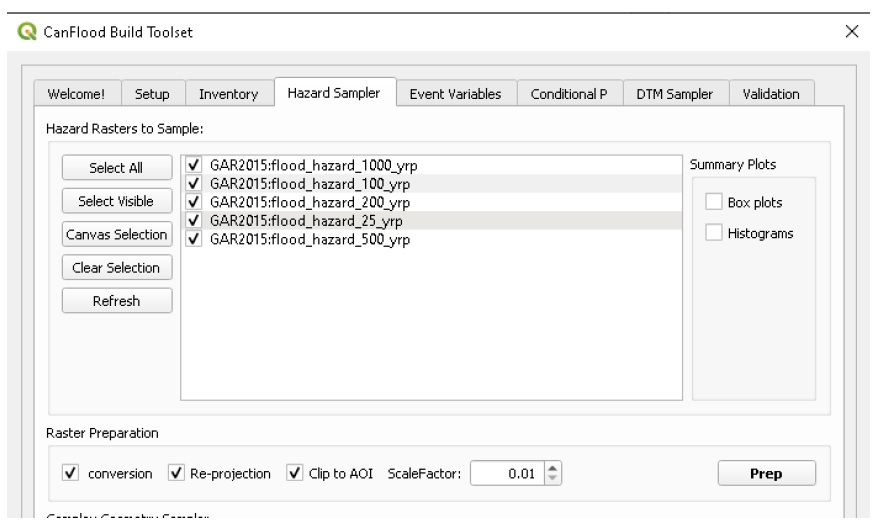
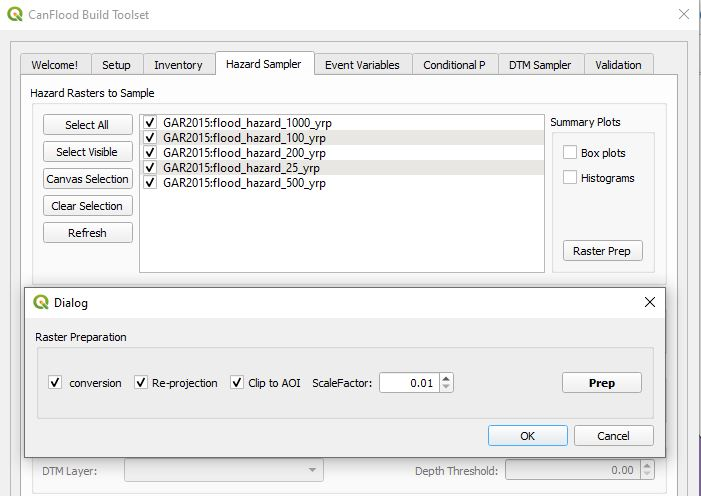
Latest changes by Jamie on the manual

diff --git a/docs/source/table_of_contents/index.rst b/docs/source/table_of_contents/index.rst
@@ -1693,8 +1693,8 @@ These plots are the two standard risk curve formats for the same total results d
 
 Users should first complete Tutorials 1 and 2a. Tutorial 2b uses the same input data as 2a but expands the analysis to demonstrate the risk analysis of a simple levee failure through incorporating a single companion failure event into the model. This companion failure event is composed of two layers:
 
-  • *haz_1000_fail_B_tut2*: ‘failure raster’ indicating the WSL that would be realized were any of the levee segments to fail during the event; and
-  • *haz_1000_fail_B_tut2*: conditional exposure probability polygon layer with features indicating the extent and probability of failure of each levee segment during the flood event (‘failure polygons’). Notice this layer contains two features that overlap in places, corresponding potential flooding from two breach sites in the levee system. This layer will be used to tell CanFlood when and how to sample the failure raster.
+  • *haz_1000_fail_A_tut2*: ‘failure raster’ indicating the WSL that would be realized were any of the levee segments to fail during the event; and
+  • *haz_1000_fail_A_tut2*: conditional exposure probability polygon layer with features indicating the extent and probability of failure of each levee segment during the flood event (‘failure polygons’). Notice this layer contains two features that overlap in places, corresponding potential flooding from two breach sites in the levee system. This layer will be used to tell CanFlood when and how to sample the failure raster.
 
 This simplification by using these two layers facilitates the specification of multiple failure probabilities but where any failure (or combination of failures) would realize the same WSL (Section5.1.5_’s ‘complex conditionals’). Ensure these layers are loaded into the same QGIS project as was used for Tutorial 2a.
 
@@ -1749,7 +1749,7 @@ In this plot, the red line represents the contribution to risk without the compa
 
 It is recommended that users first complete Tutorial 2b. Tutorial 2c uses the same input data as 2b but expands the analysis to demonstrate the incorporation of more complex levee failure with two companion failure events into the model.
 
-In the same QGIS project as was used for Tutorial 2a, ensure the following are also added to the project:
+In the same QGIS project as was used for Tutorial 2b, ensure the following are also added to the project:
 
   • *haz_1000_fail_B_tut2.gpkg*: failure polygon ‘B’;
   • *haz_1000_fail_B_tut2.tif*: failure raster ‘B’.
@@ -1962,7 +1962,7 @@ Navigate to the ‘Inventory’ tab, ensure ‘Elevation type’ is set to ‘da
 
 **Hazard Sampler**
 
-Navigate to the ‘Hazard Sampler’ tool, load the four hazard rasters into the dialog window, check ‘Box plots’, check ‘Exposure as Inundation%’, set the ‘Depth Threshold’ to 0.5, and select the DTM layer as shown:
+Navigate to the ‘Hazard Sampler’ tool, load the four hazard rasters into the dialog window, check ‘Box plots’, under Exposure Configuration select ‘Area-Threshold’ as the type, set the ‘Depth Threshold’ to 0.5, and select the DTM layer as shown:
 
 .. image:: /_static/tutorials_6_8_1_img_1.jpg
 
@@ -2115,7 +2115,7 @@ Navigate to the ‘Inventory’ tab. To convert the downloaded NPRI data into an
 
 Now you’re ready to sample the GAR15 hazard layers with your new NPRI inventory. Unlike the hazard layers used in previous tutorials, the GAR15 hazard layers provide *depth* (rather than WSL) data in *centimeters* (rather than meters) in a coordinate system other than that of our project. Further, these hazard layers’ extents are much larger than what is needed by our project; and because they are web-layers, many of the QGIS processing tools will not work. Therefore, we’ll need to apply the four ‘Raster Preparation’ tools described in Table 5-2 before proceeding with the ‘Hazard Sampler’.
 
-Navigate to the ‘Hazard Sampler’ tab, ensure the five GAR2015 layers are listed in the window, and click ‘Sample’. You should get an error telling you the layer CRS does not match that of the project. To resolve this, configure the Raster Preparation handles as shown and **click ‘Prep’**:
+Navigate to the ‘Hazard Sampler’ tab, ensure the five GAR2015 layers are listed in the window, and click ‘Sample’. You should get an error telling you the layer CRS does not match that of the project. To resolve this, click the "Raster Prep' button and configure the Raster Preparation handles as shown and **click ‘Prep’** and then 'OK':
 
 .. image:: /_static/tutorials_6_10_2_img_3.jpg
 
@@ -2258,9 +2258,34 @@ Complete the typical setup as instructed in Tutorial 1a.
 
 **Hazard Sampler**
 
-Navigate to the ‘Hazard Sampler’ tool, check mark the four hazard rasters, set the 'Type' parameter to 'Values', set the 'Stat. Type' parameter to 'Per-Asset', then select the 'sample_stat' field to tell CanFlood to pull the sampling statistic from this field. Verify your dialog looks like the below then click 'Sample'.
+Navigate to the ‘Hazard Sampler’ tool, check mark the four hazard rasters, set the 'Type' parameter to 'Values', set the 'Stat. Type' parameter to 'Per-Asset', then select the 'sample_stat' field to tell CanFlood to pull the sampling statistic from this field. Verify your dialog looks like the below then **click 'Sample'**.
 
-.. image:: /_static/tut7a_HS.JPG
+.. image:: /_static/tutorials_6_12_img_1.JPG
+
+Complete the rest of the build process by running the ‘Event Variables’, ‘DTM Sampler’ and ‘Validation’  tools as outlined in Tutorial 1a.
+
+6.12.2. Run the Model
+=====================
+
+Open the ‘Model’ dialog and follow the steps in Tutorial 1a to setup this model run.  Then execute the ‘Risk (L1)’ model to generate the following files:
+
+	• risk1_tut7a_passet.csv: expected value of inundation per asset; 
+	• risk1_tut7a_ttl.csv: total results, expected value of total inundation per event; 
+	• tut7a.run1 Impact-ARI plot on 6 events.svg: a plot of the total results. 
+
+In order to understand and visualize the effect of setting the hazard sampling statistic to ‘Per-Asset’, you can try re-building and running the same model with the hazard statistic set to ‘Global’ and then compare the results.
+
+6.12.3. View Results
+=====================
+To visualize the difference between these two model configurations, open the ‘Results’ toolset and select a working directory and the original ‘Per-Asset’ control file as the ‘main control file’ on the ‘Setup’ tab. Before generating the comparison files, configure the plot style by opening the same main control file, and changing the following ‘[plotting]’ parameters: 
+• ‘color = red’ 
+• ‘linestyle = solid’ 
+• ‘impactfmt_str = ,.0f’ 
+
+To generate a comparison plot of these two scenarios, navigate to the ‘Compare/Combine’ tab, select the ‘Control File’ for both model configurations (Per-Asset & Global) generated in the previous step, ensure ‘Control Files’ is checked under ‘Comparison Controls’ then **click ‘Compare’**.  Your results should look similar to this:
+
+.. image:: /_static/tutorials_6_12_img_2.JPG
+
 
 .. _references:
 
